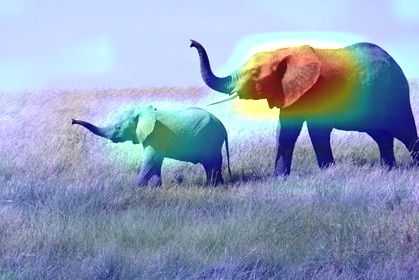
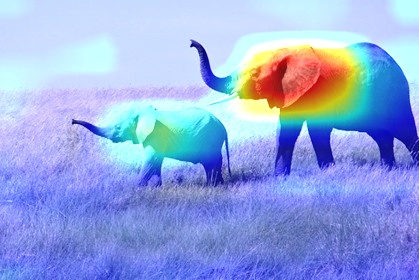
test

diff --git a/timmCAM.py b/timmCAM.py
@@ -7,27 +7,46 @@ class CFG:
     clsarr = ['nomask', 'mask', 'wrong', 'blind']
     classes = 4
 
-class efficientnet_b0:
+class efficientnet_b0(nn.Module):
     def __init__(self):
         super(efficientnet_b0, self).__init__()
         
-        self.model = timm.create_model('efficientnet_b0')
+        self.model = timm.create_model('efficientnet_b0', pretrained=True)
         self.global_pool = self.model.global_pool
         self.classifier = nn.Linear(1280, CFG.classes)
         self.model.global_pool = nn.Identity()
         self.model.classifier = nn.Identity()
         
         self.gradient = None
-        
+
+    def activations_hook(self, grad):
+        self.gradient = grad
+    
+    def get_activations_gradient(self):
+        return self.gradient
+    
+    def get_activations(self, x):
+        return self.model(x)
+    
     def forward(self, x):
         x = self.model(x)
+        h = x.register_hook(self.activations_hook)
+        # -> gradient 생성
         x = self.global_pool(x)
         x = self.classifier(x)
         
+        return x
         # input:256 -> ([1, 1280, 8, 8])
         
-        
-        
-        
-        
-efficientnet_b0()
+modelE = efficientnet_b0()
+modelE.eval()
+randn = torch.randn(1,3,256,256)
+
+pred = modelE(randn)
+
+argmax = pred.argmax().item()
+print(f'{CFG.clsarr[argmax]}로 예측하였습니다.')
+
+print(pred.size())
+pred[:, argmax].backward()
+gradients = modelE.get_activations_gradient()

diff --git a/camtest.py b/camtest.py
@@ -46,6 +46,7 @@ class VGG(nn.Module):
         x = self.features_conv(x)
         # register the hook
         h = x.register_hook(self.activations_hook)
+        
         # apply the remaining pooling
         x = self.max_pool(x)
         x = x.view((1, -1))
@@ -92,7 +93,7 @@ activations = vgg.get_activations(img).detach()
 
 # weight the channels by corresponding gradients
 # for i in range(512):
-for i in range(len(activations[1])):
+for i in range(512):
     activations[:, i, :, :] *= pooled_gradients[i]
 
 # average the channels of the activations
@@ -113,8 +114,7 @@ heatmap = np.uint8(255 * heatmap)
 
 
 heatmap = cv2.applyColorMap(heatmap, cv2.COLORMAP_JET)
-
-superimposed_img = heatmap * 0.4 + img
+superimposed_img = heatmap * 0.7 + img
 
 cv2.imwrite('./aa.jpg',superimposed_img)
 
